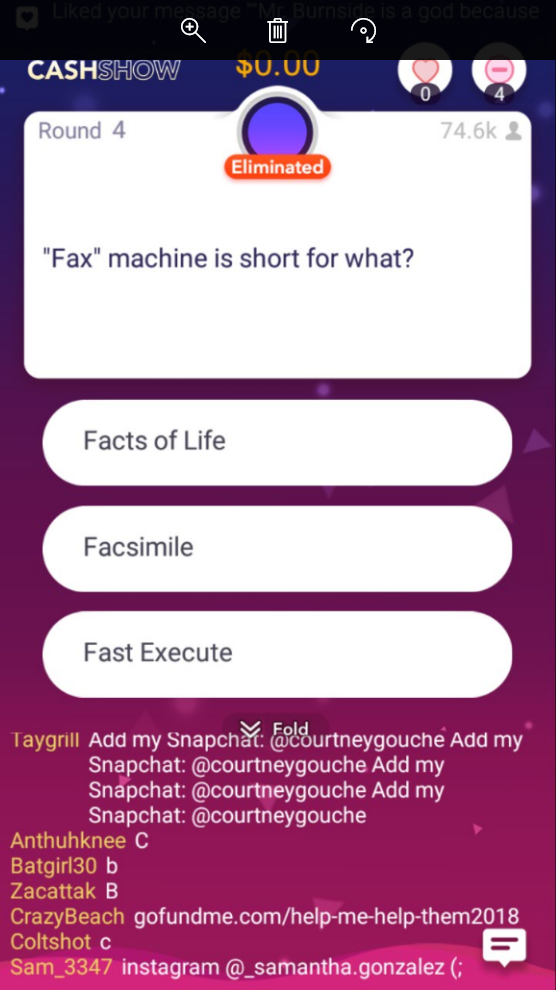
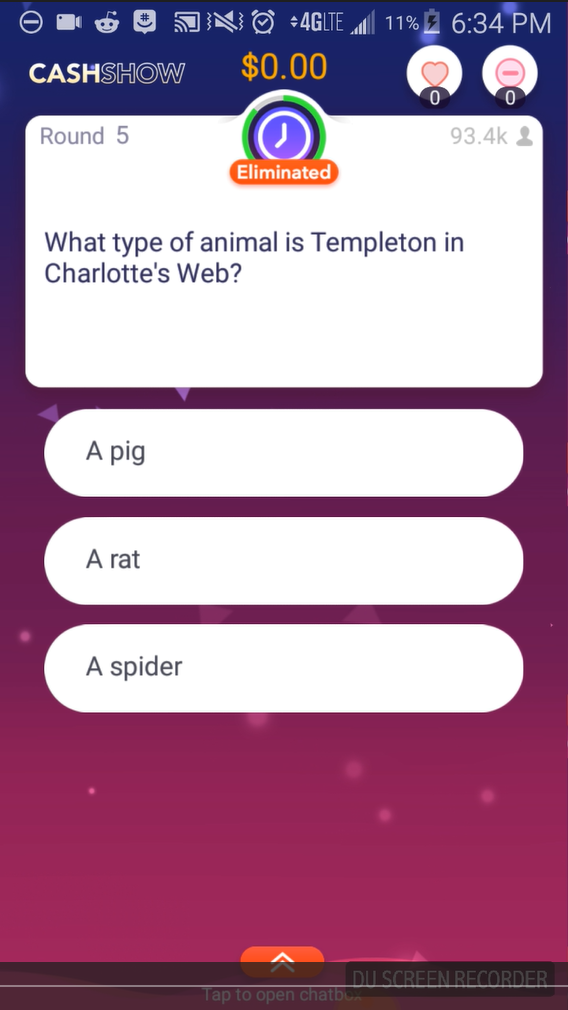
Tested to work on all monitor resolutions now

diff --git a/Cash Show Helper/src/vision/SmartScreen.java b/Cash Show Helper/src/vision/SmartScreen.java
@@ -1,6 +1,5 @@
 package vision;
 
-import java.awt.Dimension;
 import java.awt.GraphicsConfiguration;
 import java.awt.GraphicsDevice;
 import java.awt.GraphicsEnvironment;
@@ -9,24 +8,36 @@ import java.awt.Rectangle;
 import java.awt.Toolkit;
 
 import consoleOutput.ConsoleOutput;
-import main.Main;
 
 public class SmartScreen {
-	static ConsoleOutput thisOutput;
 
-	public static Dimension screenSize = Toolkit.getDefaultToolkit().getScreenSize();
+	double titleHeight;
+	double taskbarHeight;
+	double monitorScreenHeight;
+	double monitorScreenWidth;
 
-	public static int monitorScreenHeight = (int) screenSize.getHeight();
-	public static int monitorScreenWidth = (int) screenSize.getWidth();
-	public static int screenshotXCoordinate;
-	public static int screenshotYCoordinate;
+	public int screenshotXCoordinate;
+	public int screenshotYCoordinate;
+	public int phoneHeight;
+	public double phoneWidth;
 
-	public SmartScreen() {
-		runSmartScreenCheck(Main.output);
+	public SmartScreen(double monitorX, double monitorY, double tHeight, double bHeight) {
+		monitorScreenHeight = monitorY;
+		monitorScreenWidth = monitorX;
+		titleHeight = tHeight;
+		taskbarHeight = bHeight;
+
 	}
 
-	public static double scaleToAnyScreen(int dimension) {
-		return monitorScreenHeight * dimension / 1080.0;
+	public void actualSmartScreenCheck() {
+		phoneHeight = (int) Math.round(monitorScreenHeight - (taskbarHeight + titleHeight));
+		phoneWidth = (int) Math.round(9.0 * phoneHeight / 16.0);
+		screenshotXCoordinate = (int) Math.round((monitorScreenWidth - phoneWidth) / 2.0);
+		screenshotYCoordinate = (int) titleHeight;
+	}
+
+	public double scaleToAnyScreen(int dimension) {
+		return phoneHeight * dimension / 1080.0;
 	}
 
 	/**
@@ -35,28 +46,31 @@ public class SmartScreen {
 	 * @param baseCoordinate
 	 * @return
 	 */
-	public static int relToAbsPixLoc(int relLocation, int baseCoordinate) {
-		return (int) Math.round(baseCoordinate + scaleToAnyScreen(relLocation));
+	public int relToAbsHorizontal(int relLocation, int baseCoordinate) {
+		return (int) Math.round(baseCoordinate + relLocation / 557.0 * phoneWidth);
 	}
+	
+	
+
+	//	/**
+	//	 * Calculates and returns the x, y, width, and height of the phone screen
+	//	 * based on overall resolution
+	//	 * @param output Console Output object which is used to find the height of the window
+	//	 * @return Integer array with the calculated data, this can be passed
+	//	 *         straight to rectangle coordinates
+	//	 */
+	//	public static Rectangle runSmartScreenCheck(ConsoleOutput output) {
+	//		thisOutput = output;
+	//		int availableHeight = (int) Math.round(monitorScreenHeight - (getTaskbarSize() + output.getConsoleHeight()));
+	//		int availableWidth = (int) Math.round(availableHeight * monitorScreenHeight / monitorScreenWidth);
+	//		screenshotXCoordinate = (int) Math.round((monitorScreenWidth - availableWidth) / 2);
+	//		screenshotYCoordinate = output.getConsoleHeight();
+	//		return new Rectangle(screenshotXCoordinate, screenshotYCoordinate, availableWidth, availableHeight);
+	//	}
 
 	/**
-	 * Calculates and returns the x, y, width, and height of the phone screen
-	 * based on overall resolution
-	 * @param output Console Output object which is used to find the height of the window
-	 * @return Integer array with the calculated data, this can be passed
-	 *         straight to rectangle coordinates
-	 */
-	public static Rectangle runSmartScreenCheck(ConsoleOutput output) {
-		thisOutput = output;
-		int availableHeight = (int) Math.round(monitorScreenHeight - (getTaskbarSize() + getTitleHeight()));
-		int availableWidth = (int) Math.round(availableHeight * monitorScreenHeight / monitorScreenWidth);
-		screenshotXCoordinate = (int) Math.round((monitorScreenWidth - availableWidth) / 2);
-		screenshotYCoordinate = getTitleHeight();
-		return new Rectangle(screenshotXCoordinate, screenshotYCoordinate, availableWidth, availableHeight);
-	}
-
-	/**
-	 * Calculates the 
+	 * Calculates the
+	 * 
 	 * @return
 	 */
 	public static int getTaskbarSize() {
@@ -68,16 +82,26 @@ public class SmartScreen {
 
 	}
 
-	public static int getTitleHeight() {
-		return (int) (Math.round(thisOutput.getInsets().top / 10.0) * 10);
+	public Rectangle getRectangle() {
+		System.out.println(screenshotXCoordinate);
+		System.out.println(screenshotYCoordinate);
+		System.out.println(phoneWidth);
+		System.out.println(phoneHeight);
+
+		
+		
+		return (new Rectangle(screenshotXCoordinate, screenshotYCoordinate, (int) phoneWidth, phoneHeight));
 	}
 
 	public static void main(String[] args) {
 		ConsoleOutput output = new ConsoleOutput();
-		output.setVisible(true);
-		System.out.println(runSmartScreenCheck(output).x);
-		System.out.println(runSmartScreenCheck(output).y);
-		System.out.println(runSmartScreenCheck(output).width);
-		System.out.println(runSmartScreenCheck(output).height);
+		output.show();
+		SmartScreen screen = new SmartScreen(ScreenUtils.getScreenWidth(), ScreenUtils.getScreenHeight(), output.getConsoleHeight(), ScreenUtils.getTaskbarHeight());
+		screen.actualSmartScreenCheck();
+		
+		System.out.println(screen.screenshotXCoordinate);
+		System.out.println(screen.screenshotYCoordinate);
+		System.out.println(screen.phoneWidth);
+		System.out.println(screen.phoneHeight);
 	}
 }

diff --git a/Cash Show Helper/src/main/Main.java b/Cash Show Helper/src/main/Main.java
@@ -3,13 +3,17 @@ package main;
 import java.awt.AWTException;
 import java.awt.Robot;
 import java.awt.image.BufferedImage;
+import java.io.File;
 import java.io.IOException;
+
+import javax.imageio.ImageIO;
 
 import algorithms.Algorithms;
 import algorithms.GoogleSearcher;
 import consoleOutput.ConsoleOutput;
 import vision.ImageProcessor;
 import vision.PixelListener;
+import vision.ScreenUtils;
 import vision.SmartScreen;
 
 public class Main {
@@ -25,27 +29,44 @@ public class Main {
 	public static ConsoleOutput output = new ConsoleOutput();
 	
 	public static void main(String[] args) throws AWTException, IOException, InterruptedException {
-
+		
+		
+		
 		output.setVisible(true);
-
+		SmartScreen smartscreen = new SmartScreen(ScreenUtils.getScreenWidth(), ScreenUtils.getScreenHeight(), output.getConsoleHeight(), ScreenUtils.getTaskbarHeight());
+		smartscreen.actualSmartScreenCheck();
 		robot = new Robot();
+		
 		robot.setAutoDelay(0);
 		robot.setAutoWaitForIdle(false);
-		BufferedImage phoneScreen = robot.createScreenCapture(SmartScreen.runSmartScreenCheck(output));
-
-		ImageProcessor processor = new ImageProcessor(phoneScreen);
-		whiteListener = new PixelListener(SmartScreen.relToAbsPixLoc(Config.whiteYLocation, SmartScreen.screenshotXCoordinate),
-				SmartScreen.relToAbsPixLoc(Config.whiteYLocation, SmartScreen.screenshotYCoordinate), robot);
+		//BufferedImage phoneScreen = robot.createScreenCapture(SmartScreen.runSmartScreenCheck(output));
+		
+		whiteListener = new PixelListener(smartscreen.relToAbsHorizontal(Config.whiteXLocation, smartscreen.screenshotXCoordinate),
+				smartscreen.relToAbsHorizontal(Config.timerXLocation, smartscreen.screenshotYCoordinate), robot);
+		
+		System.out.println(smartscreen.relToAbsHorizontal(Config.whiteYLocation, smartscreen.screenshotYCoordinate));
+		
 		timerListener = new PixelListener(
-				SmartScreen.relToAbsPixLoc(Config.timerXLocation, SmartScreen.screenshotXCoordinate),
-				SmartScreen.relToAbsPixLoc(Config.timerYLocation, SmartScreen.screenshotYCoordinate), robot);
-		System.out.println(SmartScreen.relToAbsPixLoc(Config.timerYLocation, SmartScreen.screenshotYCoordinate));
+				smartscreen.relToAbsHorizontal(Config.timerXLocation, smartscreen.screenshotXCoordinate),
+				smartscreen.relToAbsHorizontal(Config.timerYLocation, smartscreen.screenshotYCoordinate), robot);
+		
+		timerListener.printLocation();
+		whiteListener.printLocation();
+		System.out.println(smartscreen.relToAbsHorizontal(Config.timerXLocation, smartscreen.screenshotXCoordinate));
+		Thread.sleep(4000);
+		BufferedImage phoneScreen = robot.createScreenCapture(smartscreen.getRectangle());
+		ImageProcessor processor = new ImageProcessor(phoneScreen);
+		
+			ImageIO.write(phoneScreen, "png",
+					new File((new StringBuilder(Config.mainDirectory).append("phoneScreen.png").toString())));
+		
 		System.out.println((new StringBuilder("Is live show: ")).append(Config.isLiveShow));
 
 		// Do everything in this forever
 		while (true) {
 			timerListener.refreshPixelListener();
 			whiteListener.refreshPixelListener();
+			
 			// Stay in this loop until the wheel has turned gray/green and white box showed up
 			while (!((timerListener.isGray() || timerListener.isGreen()) && whiteListener.isWhite())) {
 				timerListener.refreshPixelListener();
@@ -57,9 +78,9 @@ public class Main {
 
 			// Waiting for the cash show text to load
 			Thread.sleep(700);
-
-			phoneScreen = robot.createScreenCapture(SmartScreen.runSmartScreenCheck(output));
+		phoneScreen = robot.createScreenCapture(smartscreen.getRectangle());
 			processor = new ImageProcessor(phoneScreen);
+			
 			questionText = processor.getQuestionText();
 			allAnswers = processor.getAnswerList();
 			System.out.println(processor.rawQuestionText);

diff --git a/Cash Show Helper/src/vision/ScreenUtils.java b/Cash Show Helper/src/vision/ScreenUtils.java
@@ -1,0 +1,27 @@
+package vision;
+
+import java.awt.Dimension;
+import java.awt.GraphicsConfiguration;
+import java.awt.GraphicsDevice;
+import java.awt.GraphicsEnvironment;
+import java.awt.Insets;
+import java.awt.Toolkit;
+
+public class ScreenUtils {
+	public static Dimension screenSize = Toolkit.getDefaultToolkit().getScreenSize();
+	public static double getScreenHeight() {
+		return screenSize.getHeight();
+	}
+	
+	public static double getScreenWidth() {
+		return screenSize.getWidth();
+	}
+	
+	public static double getTaskbarHeight() {
+		GraphicsEnvironment ge = GraphicsEnvironment.getLocalGraphicsEnvironment();
+		GraphicsDevice sd = ge.getDefaultScreenDevice();
+		GraphicsConfiguration[] gc = sd.getConfigurations();
+		Insets bounds = Toolkit.getDefaultToolkit().getScreenInsets(gc[0]);
+		return bounds.bottom;
+	}
+}

diff --git a/Cash Show Helper/src/main/Config.java b/Cash Show Helper/src/main/Config.java
@@ -43,7 +43,7 @@ public class Config {
 	public static final int questionTextThreshold = 195; //191 tried and tested
 	public static final int answerTextThreshold = 140; // 191 tried and tested
 
-	public static final int timerXLocation = 269;
+	public static final int timerXLocation = 271;
 	public static final int timerYLocation = 95;
 
 	@Deprecated
@@ -64,7 +64,7 @@ public class Config {
 	public static final int[] whiteBTOL = {254, 255};
 
 	public static final int  whiteXLocation = 268;
-	public static final int whiteYLocation = 295;
+	public static final int whiteYLocation = 345;
 	
 	public static final int whitePixelXLocation = 950; //
 	public static final int whitePixelYLocation = 335; //

diff --git a/Cash Show Helper/src/vision/PixelListener.java b/Cash Show Helper/src/vision/PixelListener.java
@@ -81,7 +81,10 @@ public class PixelListener {
 	public int getB() {
 		return blue;
 	}
-
+	public void printLocation() {
+		System.out.println((new StringBuilder("x: ").append(xCoordinate).append(" y: ").append(yCoordinate)));
+	}
+	
 	public void printRGB() {
 		System.out.println((new StringBuilder("R: ")).append(red));
 		System.out.println((new StringBuilder("G: ")).append(green));

diff --git a/Cash Show Helper/src/consoleOutput/ConsoleOutput.java b/Cash Show Helper/src/consoleOutput/ConsoleOutput.java
@@ -89,7 +89,12 @@ public class ConsoleOutput extends JFrame {
 		setSize(480, 320);
 		setLocationRelativeTo(null); // centers on screen
 	}
-
+	
+	public double getConsoleHeight() {
+		return  (Math.round(this.getInsets().top / 10.0) * 10);
+	}
+	
+	
 	/**
 	 * 
 	 * 
